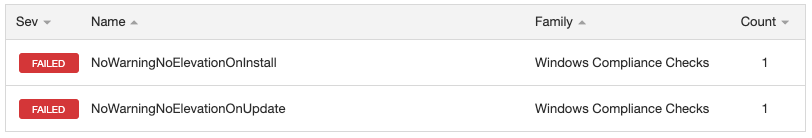
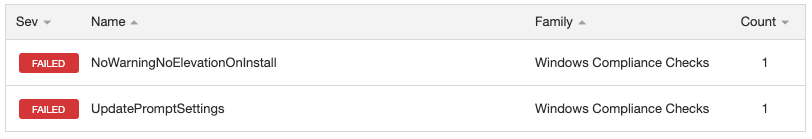
updated to reflect UpdatePromptSettings registry key

diff --git a/cve-2021-34527/README.md b/cve-2021-34527/README.md
@@ -8,7 +8,7 @@ Tenable audits can be used to check for the existence of the specific configurat
 
 ## Audit information
 
-The audit checks for the existence of the workarounds, or the patch settings are in place for NoWarningNoElevationOnInstall and NoWarningNoElevationOnUpdate.
+The audit checks for the existence of the workarounds, or the patch settings are in place for NoWarningNoElevationOnInstall and UpdatePromptSettings.
 
 
 This conditional checks to verify if Workaround 1 is in place
@@ -42,7 +42,7 @@ In order to secure your system, you must confirm that the following registry set
 
 HKEY_LOCAL_MACHINE\SOFTWARE\Policies\Microsoft\Windows NT\Printers\PointAndPrint
 NoWarningNoElevationOnInstall = 0 (DWORD) or not defined (default setting)
-NoWarningNoElevationOnUpdate = 0 (DWORD) or not defined (default setting)
+UpdatePromptSettings = 0 (DWORD) or not defined (default setting)
 Having NoWarningNoElevationOnInstall set to 1 makes your system vulnerable by design.
 
 UPDATE July 6, 2021: Microsoft has completed the investigation and has released security updates to address this vulnerability. Please see the Security Updates table for the applicable update for your system. We recommend that you install these updates immediately. If you are unable to install these updates, see the FAQ and Workaround sections in this CVE for information on how to help protect your system from this vulnerability. See also KB5005010: Restricting installation of new printer drivers after applying the July 6, 2021 updates.
@@ -122,7 +122,7 @@ In order to secure your system, you must confirm that the following registry set
 
 HKEY_LOCAL_MACHINE\SOFTWARE\Policies\Microsoft\Windows NT\Printers\PointAndPrint
 NoWarningNoElevationOnInstall = 0 (DWORD) or not defined (default setting)
-NoWarningNoElevationOnUpdate = 0 (DWORD) or not defined (default setting)
+UpdatePromptSettings = 0 (DWORD) or not defined (default setting)
 Having NoWarningNoElevationOnInstall set to 1 makes your system vulnerable by design.
 
 UPDATE July 6, 2021: Microsoft has completed the investigation and has released security updates to address this vulnerability. Please see the Security Updates table for the applicable update for your system. We recommend that you install these updates immediately. If you are unable to install these updates, see the FAQ and Workaround sections in this CVE for information on how to help protect your system from this vulnerability. See also KB5005010: Restricting installation of new printer drivers after applying the July 6, 2021 updates.
@@ -185,7 +185,7 @@ In order to secure your system, you must confirm that the following registry set
 
 HKEY_LOCAL_MACHINE\SOFTWARE\Policies\Microsoft\Windows NT\Printers\PointAndPrint
 NoWarningNoElevationOnInstall = 0 (DWORD) or not defined (default setting)
-NoWarningNoElevationOnUpdate = 0 (DWORD) or not defined (default setting)
+UpdatePromptSettings = 0 (DWORD) or not defined (default setting)
 Having NoWarningNoElevationOnInstall set to 1 makes your system vulnerable by design.
 
 UPDATE July 6, 2021: Microsoft has completed the investigation and has released security updates to address this vulnerability. Please see the Security Updates table for the applicable update for your system. We recommend that you install these updates immediately. If you are unable to install these updates, see the FAQ and Workaround sections in this CVE for information on how to help protect your system from this vulnerability. See also KB5005010: Restricting installation of new printer drivers after applying the July 6, 2021 updates.
@@ -233,7 +233,7 @@ This policy will block the remote attack vector by preventing inbound remote pri
 
   <custom_item>
     type         : REGISTRY_SETTING
-    description  : "NoWarningNoElevationOnUpdate"
+    description  : "UpdatePromptSettings"
     info         : "A remote code execution vulnerability exists when the Windows Print Spooler service improperly performs privileged file operations. An attacker who successfully exploited this vulnerability could run arbitrary code with SYSTEM privileges. An attacker could then install programs; view, change, or delete data; or create new accounts with full user rights.
 
 UPDATE July 7, 2021: The security update for Windows Server 2012, Windows Server 2016 and Windows 10, Version 1607 have been released. Please see the Security Updates table for the applicable update for your system. We recommend that you install these updates immediately. If you are unable to install these updates, see the FAQ and Workaround sections in this CVE for information on how to help protect your system from this vulnerability.
@@ -242,7 +242,7 @@ In order to secure your system, you must confirm that the following registry set
 
 HKEY_LOCAL_MACHINE\SOFTWARE\Policies\Microsoft\Windows NT\Printers\PointAndPrint
 NoWarningNoElevationOnInstall = 0 (DWORD) or not defined (default setting)
-NoWarningNoElevationOnUpdate = 0 (DWORD) or not defined (default setting)
+UpdatePromptSettings = 0 (DWORD) or not defined (default setting)
 Having NoWarningNoElevationOnInstall set to 1 makes your system vulnerable by design.
 
 UPDATE July 6, 2021: Microsoft has completed the investigation and has released security updates to address this vulnerability. Please see the Security Updates table for the applicable update for your system. We recommend that you install these updates immediately. If you are unable to install these updates, see the FAQ and Workaround sections in this CVE for information on how to help protect your system from this vulnerability. See also KB5005010: Restricting installation of new printer drivers after applying the July 6, 2021 updates.
@@ -284,7 +284,7 @@ This policy will block the remote attack vector by preventing inbound remote pri
     value_type   : POLICY_DWORD
     value_data   : 0
     reg_key      : "HKLM\Software\Policies\Microsoft\Windows NT\Printers\PointAndPrint"
-    reg_item     : "NoWarningNoElevationOnUpdate"
+    reg_item     : "UpdatePromptSettings"
     reg_option   : CAN_BE_NULL
   </custom_item>
 </else>
